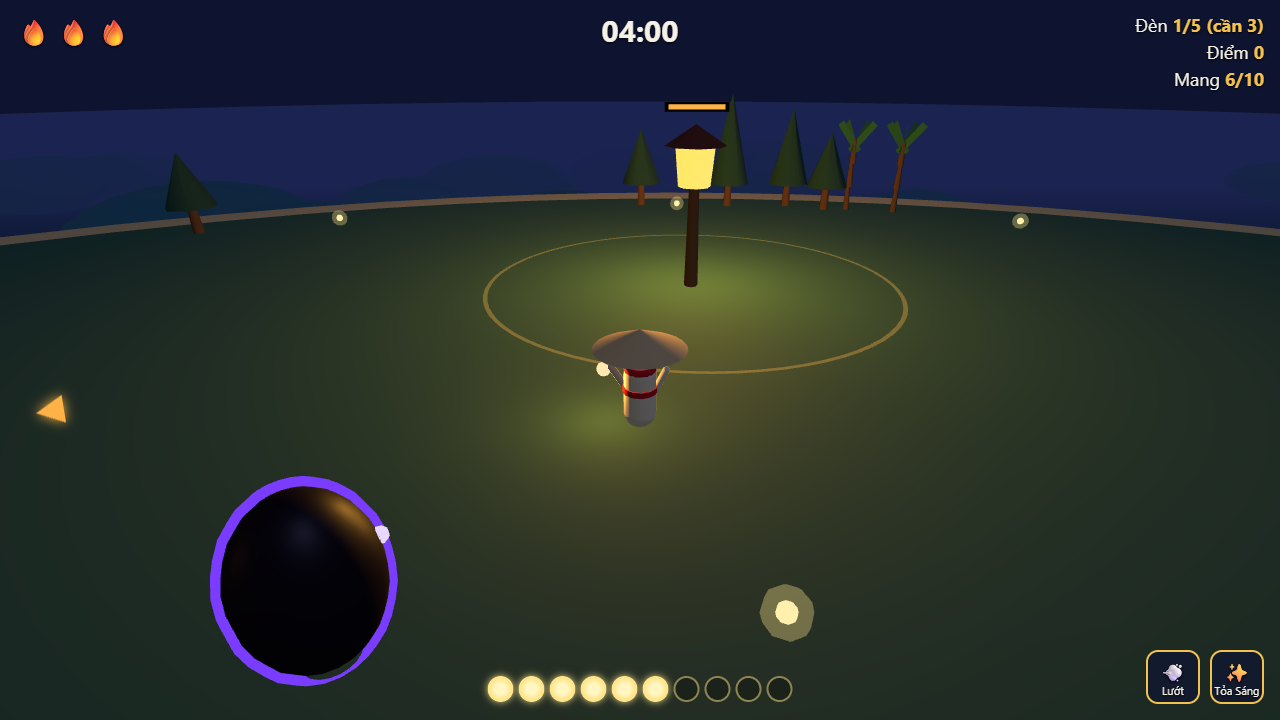
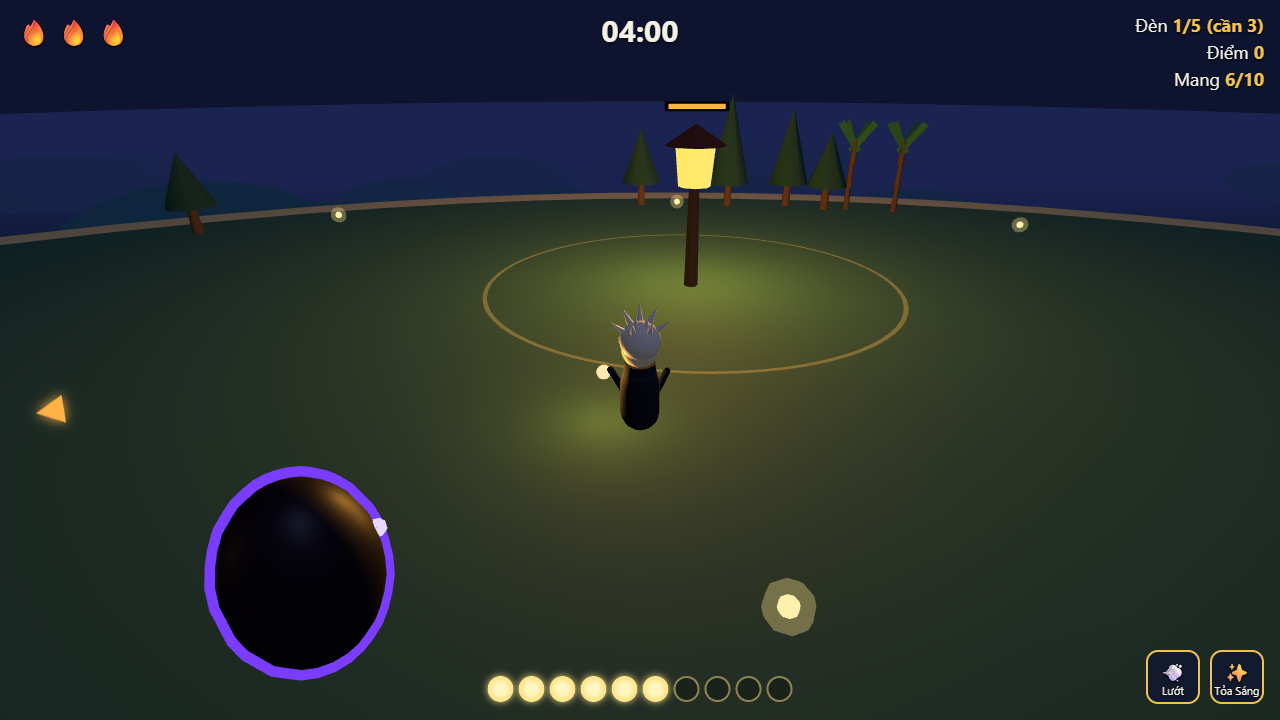
Character redesign: Mây → Gojo Satoru chibi (white spiky hair, dark uniform, blindfold)
Replace Vietnamese girl with nón lá with a Gojo chibi:
- 9 white/silver cone hair spikes at varied angles
- White spherical hair base behind head
- Dark navy jacket with coat-layer overlay
- High-collar dark uniform
- White blindfold strip across face
- Dark sleeve arms matching uniform
- Retains hand-held lantern and PointLight interface

diff --git a/src/web/world.ts b/src/web/world.ts
@@ -185,36 +185,60 @@ export function buildTerrain(map: NightDef): THREE.Group {
 
 export function makePlayer() {
   const g = new THREE.Group();
-  // Áo dài silhouette: slimmer body, longer torso
-  const body = new THREE.Mesh(new THREE.CapsuleGeometry(0.29, 0.72, 4, 12), std(PAL.shirt));
-  body.position.y = 0.66;
-  // Waist sash
-  const sash = new THREE.Mesh(new THREE.CylinderGeometry(0.31, 0.31, 0.11, 12), std(PAL.scarf));
-  sash.position.y = 0.76;
-  // Neck scarf
-  const scarf = new THREE.Mesh(new THREE.TorusGeometry(0.22, 0.07, 8, 16), std(PAL.scarf));
-  scarf.rotation.x = Math.PI / 2;
-  scarf.position.y = 1.14;
-  // Head
-  const head = new THREE.Mesh(new THREE.SphereGeometry(0.26, 16, 12), std(0xf3d2b3));
-  head.position.y = 1.38;
-  // Nón lá (wider, flatter — more authentic)
-  const hat = new THREE.Mesh(new THREE.ConeGeometry(0.82, 0.35, 32), std(PAL.sand));
-  hat.position.y = 1.69;
-  // Right arm — raised, holding lantern
-  const armR = new THREE.Mesh(new THREE.CapsuleGeometry(0.065, 0.42, 4, 8), std(0xf3d2b3));
-  armR.position.set(0.38, 0.95, 0.12);
-  armR.rotation.z = -0.55;
-  // Left arm — relaxed
-  const armL = new THREE.Mesh(new THREE.CapsuleGeometry(0.065, 0.42, 4, 8), std(PAL.shirt));
-  armL.position.set(-0.36, 0.9, 0);
-  armL.rotation.z = 0.45;
-  // Small hand-held lantern (at tip of right arm)
+  // Gojo Satoru chibi: dark high-collar uniform, white spiky hair, blindfold
+  const DARK = 0x141828;
+  const NAVY = 0x1c2240;
+  // Body — dark jacket, slightly wider chibi proportions
+  const body = new THREE.Mesh(new THREE.CapsuleGeometry(0.31, 0.68, 4, 12), std(NAVY));
+  body.position.y = 0.64;
+  // Outer coat (slightly wider layer for depth)
+  const coat = new THREE.Mesh(new THREE.CapsuleGeometry(0.35, 0.52, 4, 12), std(DARK));
+  coat.scale.z = 1.08;
+  coat.position.y = 0.58;
+  // High collar
+  const collar = new THREE.Mesh(new THREE.CylinderGeometry(0.27, 0.3, 0.26, 12), std(DARK));
+  collar.position.y = 1.12;
+  // Head (pale chibi face — larger relative to body)
+  const head = new THREE.Mesh(new THREE.SphereGeometry(0.32, 16, 12), std(0xf5e8d8));
+  head.position.y = 1.5;
+  // Blindfold (white strip, Gojo's most iconic look)
+  const blindfold = new THREE.Mesh(new THREE.BoxGeometry(0.68, 0.11, 0.1), std(0xe8eaf0, { roughness: 0.2 }));
+  blindfold.position.set(0, 1.55, 0.3);
+  // Hair base (white/silver sphere, shifted back/up)
+  const hairBase = new THREE.Mesh(new THREE.SphereGeometry(0.35, 16, 12), std(0xdde0ea, { roughness: 0.55 }));
+  hairBase.position.set(0, 1.68, -0.06);
+  // Spiky hair strands pointing outward in various directions
+  const hairMat = std(0xe4e7f0, { roughness: 0.45 });
+  const spikeData: [number, number, number, number, number, number][] = [
+    [0, 2.1, 0.06, 0.15, 0, 0],
+    [0.2, 2.05, 0.02, 0.1, 0, -0.45],
+    [-0.2, 2.05, 0.02, 0.1, 0, 0.45],
+    [0.08, 2.0, -0.18, -0.28, 0.25, -0.1],
+    [-0.08, 2.0, -0.18, -0.28, -0.25, 0.1],
+    [0.32, 1.9, -0.08, 0.05, 0, -0.9],
+    [-0.32, 1.9, -0.08, 0.05, 0, 0.9],
+    [0.14, 1.95, -0.28, -0.5, 0.2, -0.15],
+    [-0.14, 1.95, -0.28, -0.5, -0.2, 0.15],
+  ];
+  for (const [px, py, pz, rx, ry, rz] of spikeData) {
+    const spike = new THREE.Mesh(new THREE.ConeGeometry(0.09, 0.44, 5), hairMat);
+    spike.position.set(px, py, pz);
+    spike.rotation.set(rx, ry, rz);
+    g.add(spike);
+  }
+  // Arms — dark sleeves
+  const armR = new THREE.Mesh(new THREE.CapsuleGeometry(0.065, 0.42, 4, 8), std(DARK));
+  armR.position.set(0.4, 0.9, 0.1);
+  armR.rotation.z = -0.5;
+  const armL = new THREE.Mesh(new THREE.CapsuleGeometry(0.065, 0.42, 4, 8), std(DARK));
+  armL.position.set(-0.38, 0.88, 0);
+  armL.rotation.z = 0.42;
+  // Lantern carried in hand (Gojo holds it as his guiding light in this world)
   const lamp = new THREE.Mesh(new THREE.SphereGeometry(0.13, 12, 10), new THREE.MeshBasicMaterial({ color: PAL.lampCore }));
-  lamp.position.set(0.62, 1.05, 0.22);
+  lamp.position.set(0.62, 1.0, 0.2);
   const light = new THREE.PointLight(PAL.lampOn, 6, 12, 1.4);
   light.position.copy(lamp.position);
-  g.add(body, sash, scarf, head, hat, armR, armL, lamp, light);
+  g.add(body, coat, collar, head, blindfold, hairBase, armR, armL, lamp, light);
   return { g, light };
 }
 
